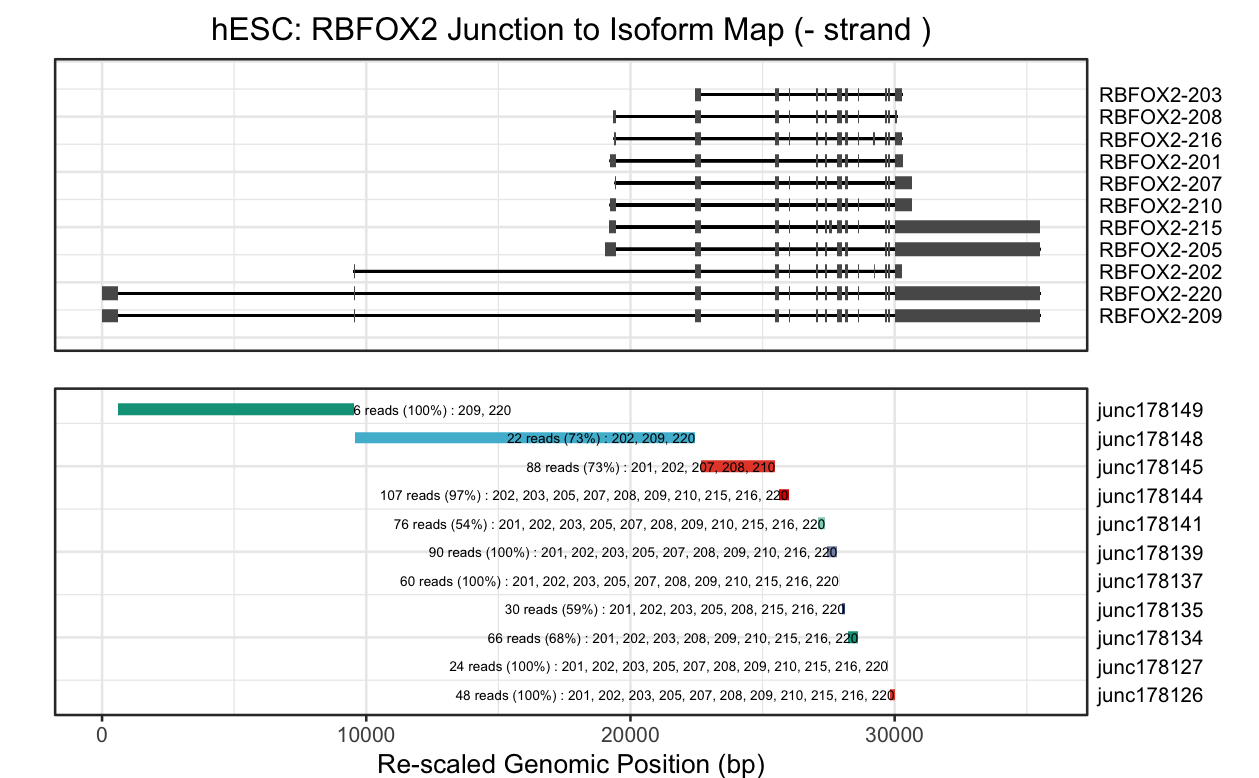
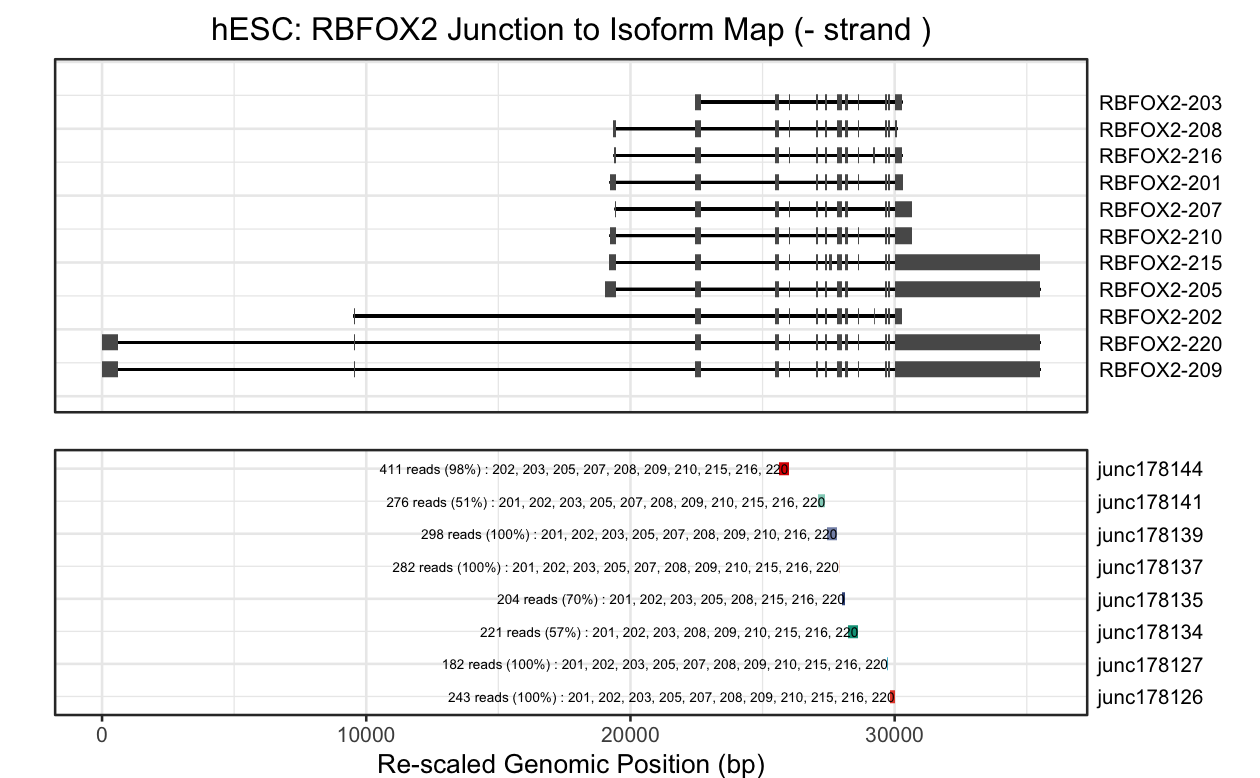
updated hesc file

Changed region(s): [[0.031, 0.0925, 0.9913, 1.0], [0.2478, 0.0308, 0.7434, 0.0617], [0.2788, 0.9254, 0.3098, 0.9563]]

diff --git a/README.md b/README.md
@@ -54,14 +54,12 @@ all_coordinates <- isoviz_coords(file_path, gene_trans, input_type="psl") #use d
 
 ``` r
 exon_coords <- all_coordinates[[1]]
-print(head(exon_coords))
 ```
 
 #### Let's look at the intron coordinates
 
 ``` r
 intron_coords <- all_coordinates[[2]]
-print(head(intron_coords))
 ```
 
 #### Let's make a basic plot of the isoforms for the gene RBFOX2
@@ -91,7 +89,6 @@ junctions <- system.file("data", "21c_hESC_RB2_empty_v41_basic.junc", package="i
 
 # run minicutter to get clusters 
 intron_clusts <- isoviz_minicutter(juncs_file = junctions)
-print(head(intron_clusts))
 ```
 
 Let's take a look at how junctions were grouped into intron clusters. Note, some of these clusters will only contain one junction (singleton). You will have the option to change this when running isoviz_minicutter.
@@ -109,13 +106,12 @@ Let's continue working on RBFOX2. Now we have to map the observed junctions with
 
 ``` r
 mapped_junctions = isoviz_map_junctions(cell_type = "hESC", rbfox2_introns, intron_clusts, gencode_intron_all_data)
-print(head(mapped_junctions))
 ```
 
 Now we are ready to make a plot!
 
 ``` r
-isoviz_plot_juncs_to_iso(mapped_junctions, rbfox2_exons,
+isoviz_plot_juncs_to_iso(mapped_junctions, rbfox2_exons, rbfox2_introns,
                                     cell_type = "hESC",
                                     junc_usage = 5, #min junc usage to be included 
                                     include_all_juncs = TRUE, intron_scale = "no")
